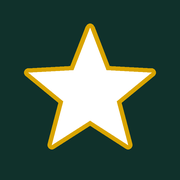
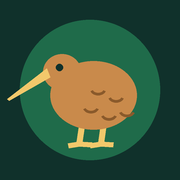
Remplace l'icône par un kiwi
Claude-Session: https://claude.ai/code/session_01N9CHCa3Thrg5RKF6xM9Y1j

diff --git a/sw.js b/sw.js
@@ -1,6 +1,6 @@
 /* L'appli s'ouvre depuis le téléphone, sans attendre le réseau.
    Une nouvelle version ne remplace l'ancienne que si elle est téléchargée en entier. */
-const VERSION = '896883e1fe0d', APP = 'appli-' + VERSION, DATA = 'donnees-v1';
+const VERSION = 'dfc1f4d58d00', APP = 'appli-' + VERSION, DATA = 'donnees-v1';
 const FILES = ['./', 'manifest.webmanifest', 'icon-192.png', 'icon-512.png', 'apple-touch-icon.png'];
 self.addEventListener('install', e => e.waitUntil((async () => {
   const c = await caches.open(APP + '-prep');
